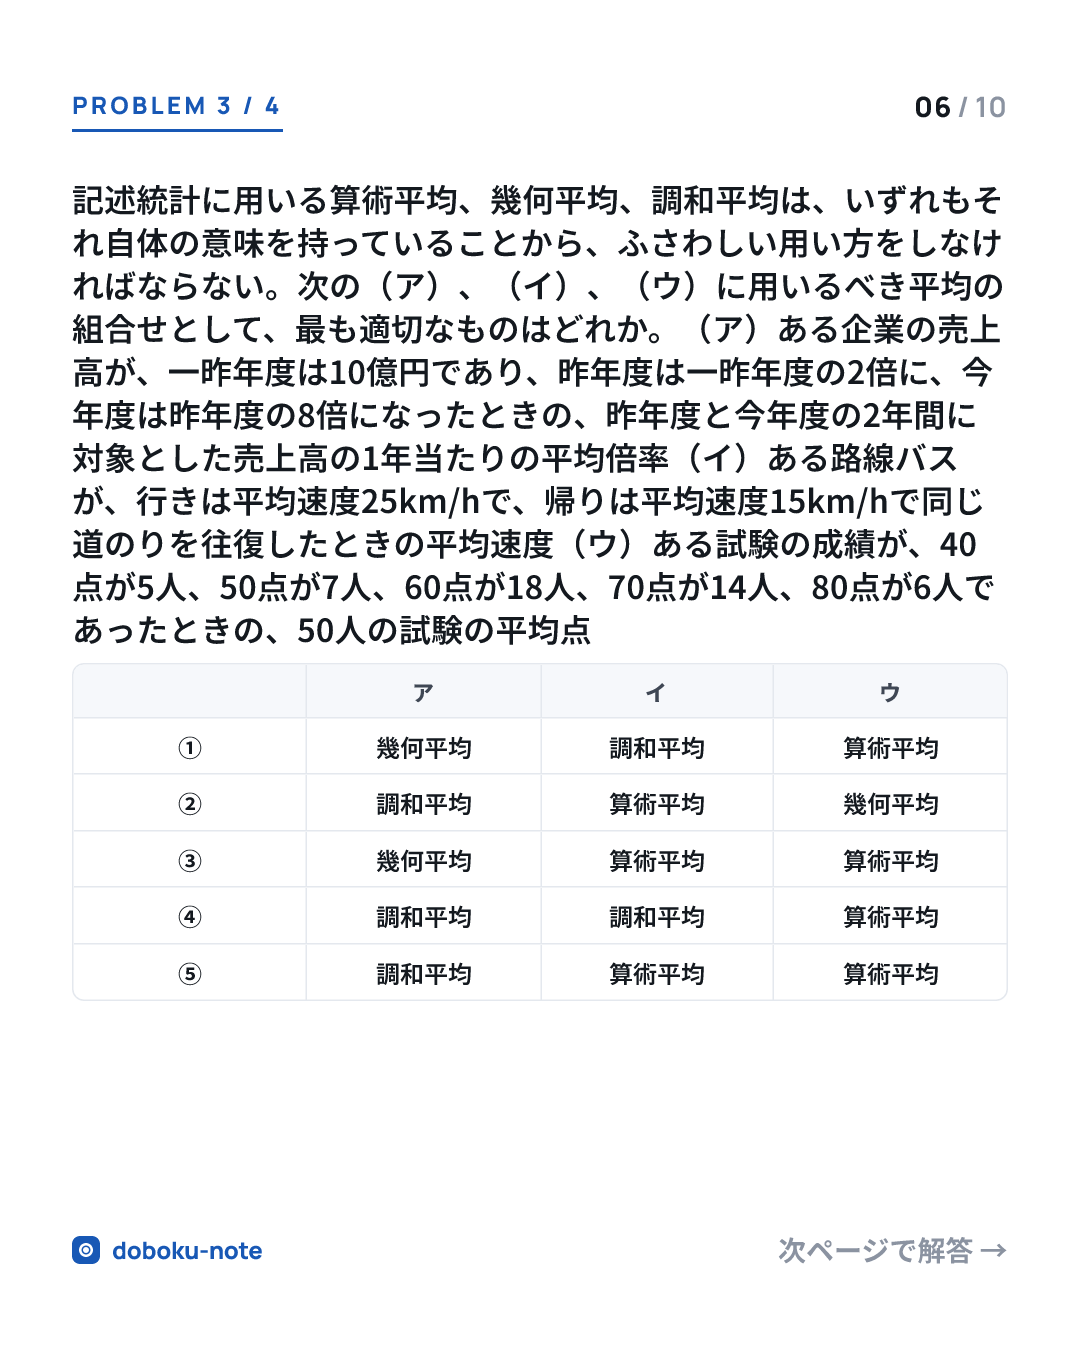
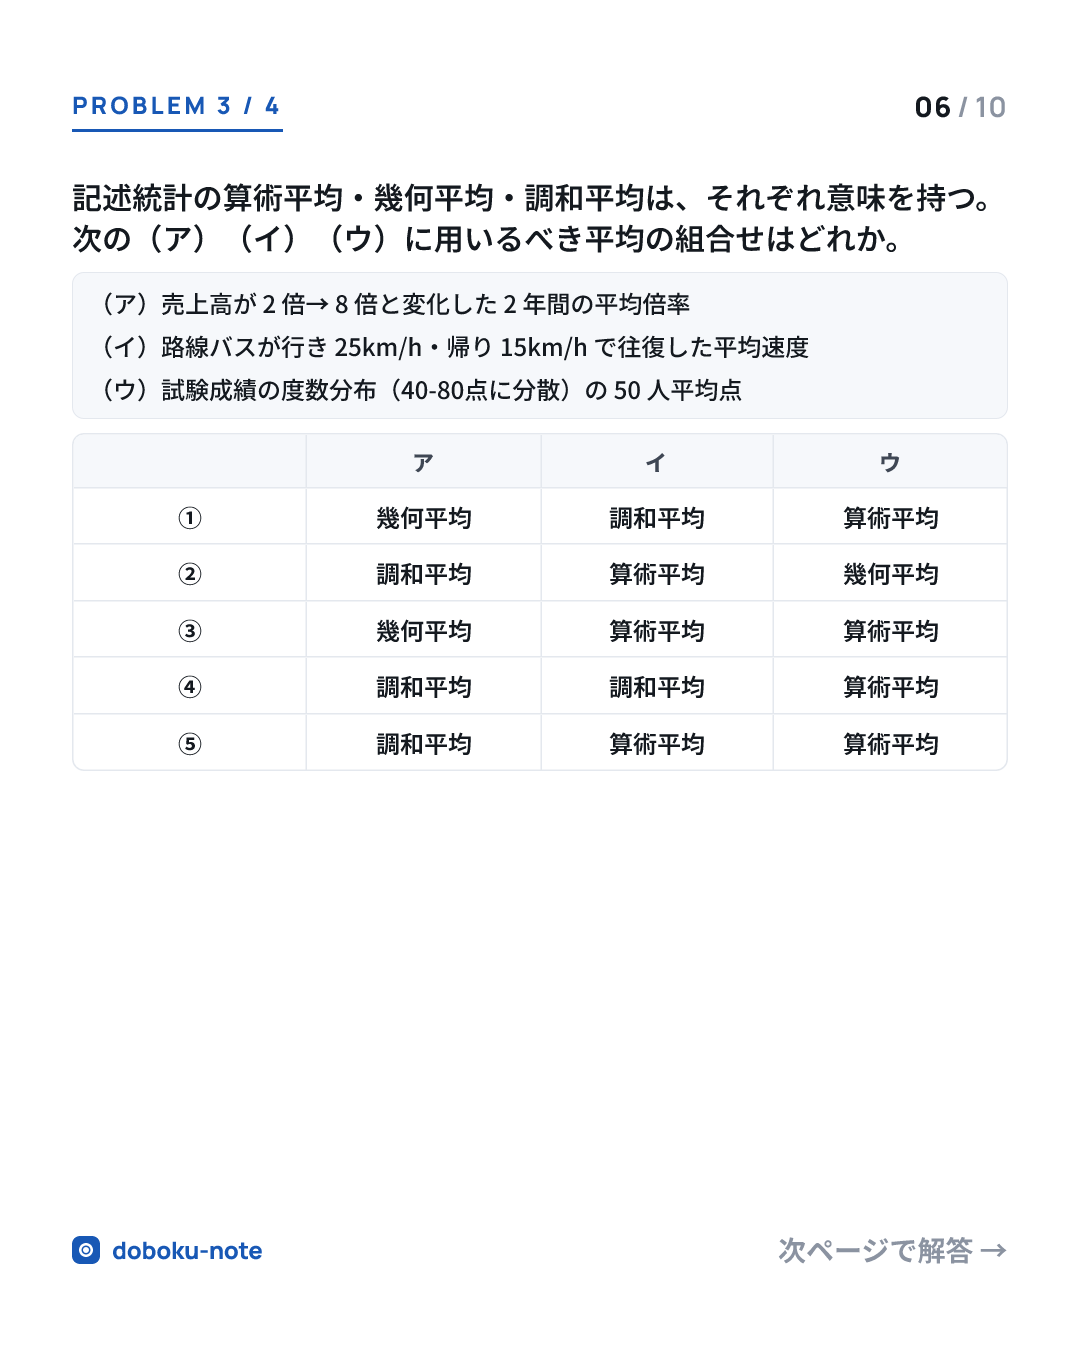
feat(ig-carousel): 構造違反の再発防止策（lint + writer/qa 拡張 + pre-check）
pack-03 Q3 の lists 化が漏れた経緯から、目視チェックでは限界があると判断。
4 つの仕組みで機械的に防止する。

A. scripts/lint-exam-pack-structure.mjs (新規)
   - E1: bodyLines に「（ア）（イ）」等の列挙が 2 個以上あるのに lists 未設定
   - E2: bodyLines に markdown 表残骸 (`|`含む) があるのに table 未設定
   - W1: optionExplanations に「個別解説は省略」プレースホルダ残存
   - 終了コード非 0 で CI / pre-commit に組み込み可

B. ig-carousel-writer.md: 構造化必須ルールを品質ガードに明示
   - 並列列挙 → lists、markdown 表 → table
   - 執筆後に lint 実行を義務化

C. ig-carousel-qa.md: 第 6 軸の確認項目に lint 自動実行を組み込み
   - ERROR 検出時はデザイン統一性軸を -2 点

D. bulk-generate-exam-packs.mjs: 生成前に lint pre-check
   - ERROR 検出時は生成中止、--skip-lint で迂回可

合わせて pack-03 Q3 のリーダーシップ用の lists 化漏れも修正（PNG 再生成）。

diff --git a/.claude/agents/ig-carousel-writer.md b/.claude/agents/ig-carousel-writer.md
@@ -80,6 +80,11 @@ model: sonnet
 - 固有名詞・数値・年号・法則名は MDX 本文に忠実にする（推測で補わない）。
 - MDX は読むだけ。編集しない。
 - 画像は生成しない（Phase 2 の一括レンダリング工程が担当）。
+- **構造化必須ルール**: problem の bodyLines は **問題の主文だけ** を書く。以下のデータは構造化フィールドへ：
+  - **並列列挙データ**（「（ア）」「（イ）」「（A）」「（B）」など 2 個以上の項目）→ `lists: [{ items: [...] }]` フィールドへ
+  - **markdown 表**（`| col | col |` 形式）→ `table: { headers: [...], rows: [...] }` フィールドへ
+  - これらを bodyLines に散文で書くと PNG 上で読みにくく、しかも lint で E1/E2 エラーになる
+- 執筆後は必ず `node scripts/lint-exam-pack-structure.mjs r07/pack-NN` を実行して構造違反 0 を確認する
 - **色・フォント・余白を本文に書かない**。デザインは `docs/design-system/instagram-carousel-tokens.json` が真実源で、`quiz-slides.mjs` が tokens から塗る。slide-data.json には文字列・数値・選択肢のみを書く。
 - 過去問パック（exam モード）の `cover.title` は管理名（経済性管理／人的資源管理／情報管理／安全管理／社会環境管理）のうち 1 つ。156px で 1 行に収まる長さ。
 - 過去問パックで 5管理別配色を意識する記述（`color`, `theme`, `mgmtColor` 等のキー）を slide-data.json に書かない。**5管理別配色は廃止済み**で、識別は cover-title のテキストのみ。

diff --git a/.claude/agents/ig-carousel-qa.md b/.claude/agents/ig-carousel-qa.md
@@ -58,6 +58,14 @@ Instagram カルーセル設定ファイル（`slide-data.json` v2）と生成 P
    - `answer` に `optionExplanations[5]` と `pointText` が両方存在するか
    - 旧 `explanationLines` が残っていれば指摘（廃止済み・移行必要）
 
+   **構造化チェック（lint 自動実行で機械検出可）**:
+   - 採点前にまず `node scripts/lint-exam-pack-structure.mjs <year>/<pack>` を実行
+   - E1: bodyLines に「（ア）（イ）」等の列挙が 2 個以上あるのに `lists` 未設定 → 散文化 NG
+   - E2: bodyLines に `|` 含む行（markdown 表残骸）があるのに `table` 未設定 → 表崩壊 NG
+   - W1: optionExplanations にプレースホルダ「個別解説は省略」残存 → 補完未完了
+   - lint で ERROR 検出 → デザイン統一性軸を -2 点（構造違反は visual に直結）
+   - 採点コメントに lint 出力を貼る
+
 ## 出力形式
 
 ```
